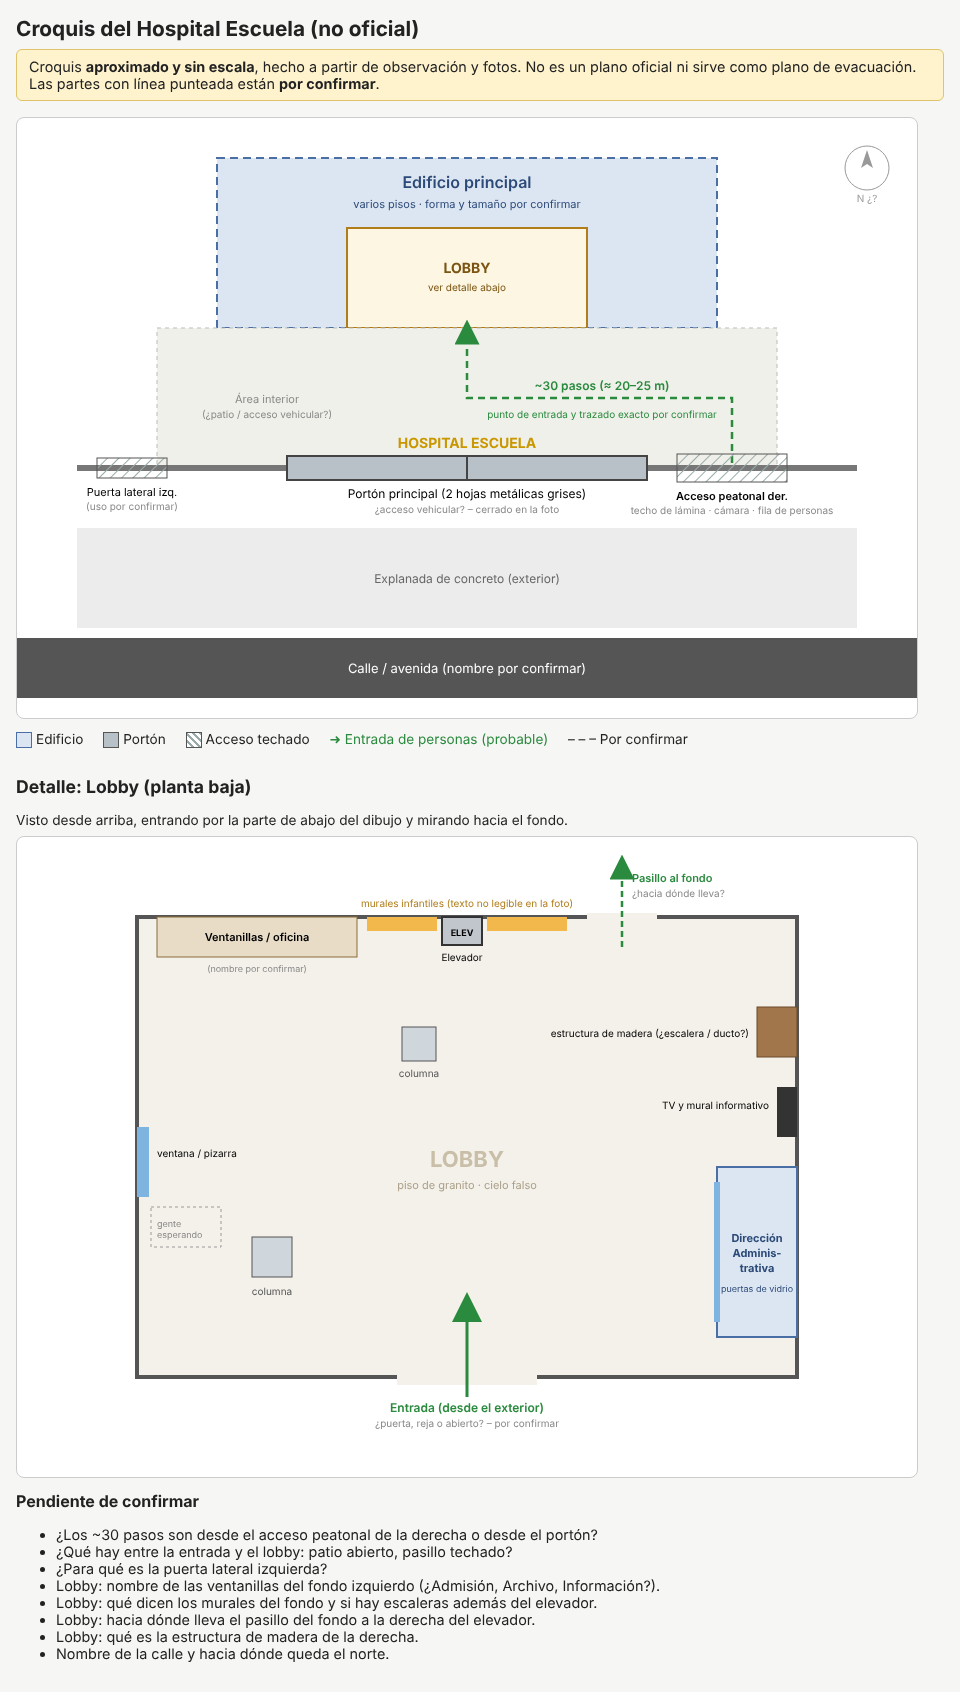
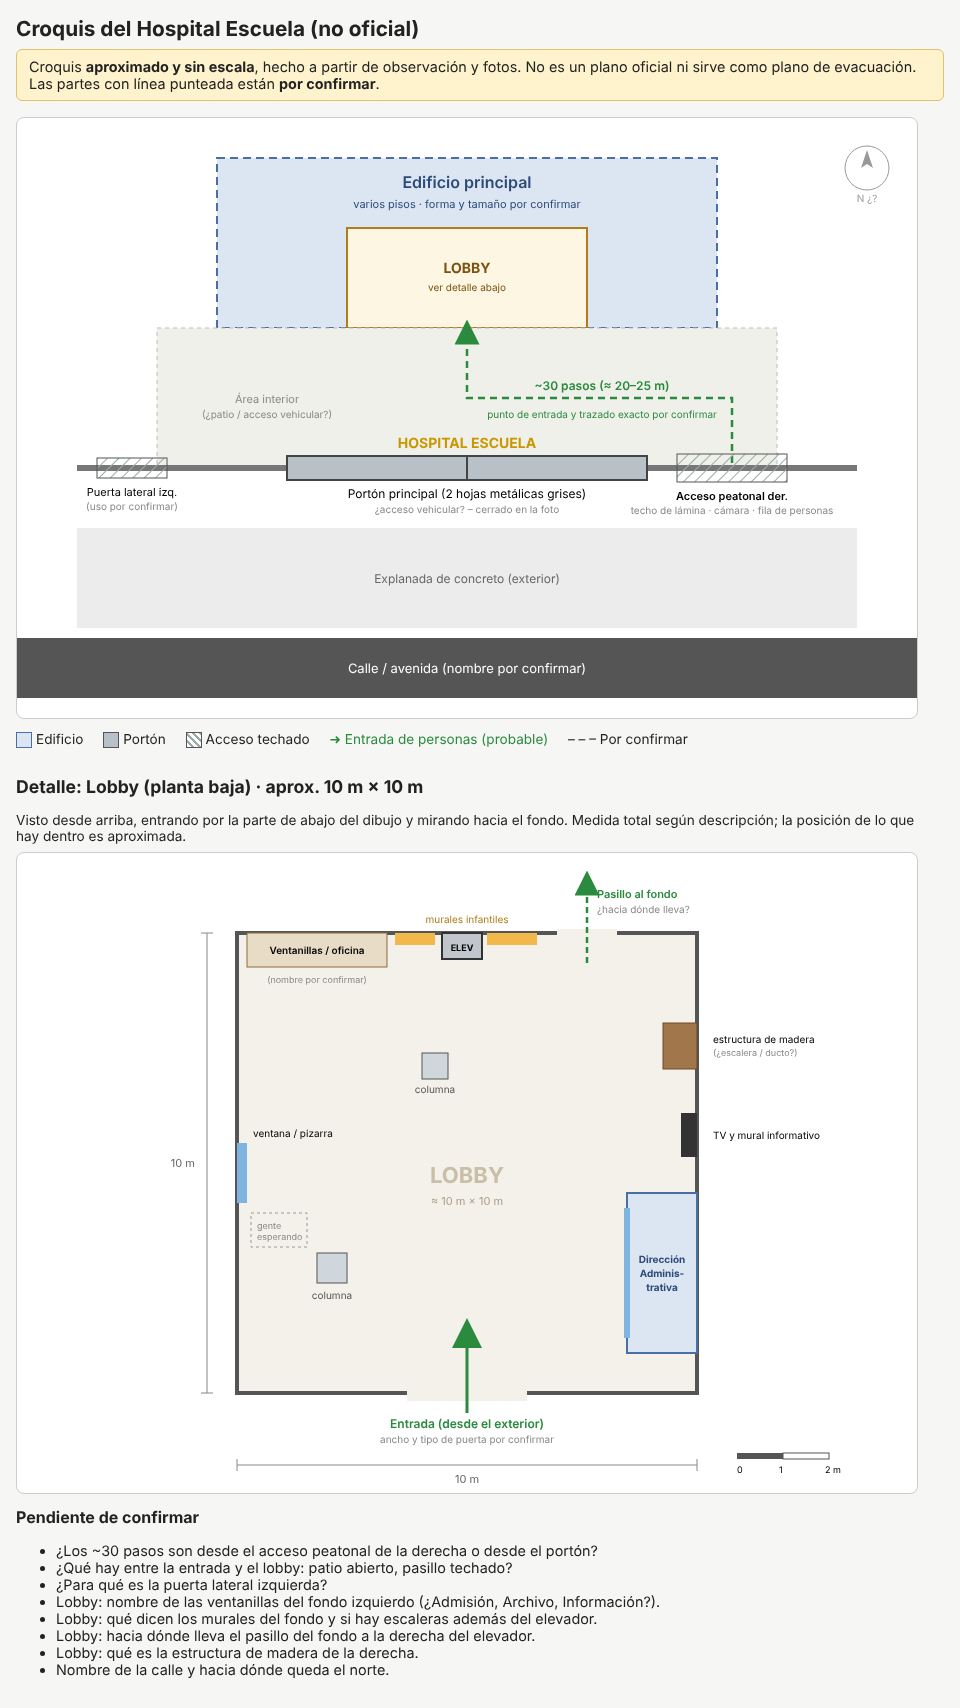
Croquis: lobby a escala aproximada 10 x 10 m
Claude-Session: https://claude.ai/code/session_015W3oK3Lfhysnu56NGNY6hD

diff --git a/croquis/index.html b/croquis/index.html
@@ -102,8 +102,8 @@
   <span>– – – Por confirmar</span>
 </div>
 
-<h2 style="font-size:1.1rem;margin-top:28px">Detalle: Lobby (planta baja)</h2>
-<p style="font-size:.85rem;max-width:900px;margin:0 0 8px">Visto desde arriba, entrando por la parte de abajo del dibujo y mirando hacia el fondo.</p>
+<h2 style="font-size:1.1rem;margin-top:28px">Detalle: Lobby (planta baja) · aprox. 10 m × 10 m</h2>
+<p style="font-size:.85rem;max-width:900px;margin:0 0 8px">Visto desde arriba, entrando por la parte de abajo del dibujo y mirando hacia el fondo. Medida total según descripción; la posición de lo que hay dentro es aproximada.</p>
 <div class="mapa">
 <svg viewBox="0 0 900 640" xmlns="http://www.w3.org/2000/svg" font-family="system-ui, sans-serif">
   <defs>
@@ -111,65 +111,68 @@
       <path d="M0,0 L10,5 L0,10 Z" fill="#2a8a3e"/>
     </marker>
   </defs>
-
-  <!-- Piso del lobby -->
-  <rect x="120" y="80" width="660" height="460" fill="#f4f1ea" stroke="#555" stroke-width="4"/>
+  <!-- Escala: 46 px = 1 m ; lobby 460 x 460 px = 10 x 10 m -->
+  <rect x="220" y="80" width="460" height="460" fill="#f4f1ea" stroke="#555" stroke-width="4"/>
   <text x="450" y="330" text-anchor="middle" font-size="22" font-weight="700" fill="#c9bfa8">LOBBY</text>
-  <text x="450" y="352" text-anchor="middle" font-size="11" fill="#a99f88">piso de granito · cielo falso</text>
+  <text x="450" y="352" text-anchor="middle" font-size="11" fill="#a99f88">≈ 10 m × 10 m</text>
+
+  <!-- Cotas -->
+  <line x1="220" y1="612" x2="680" y2="612" stroke="#888"/>
+  <line x1="220" y1="606" x2="220" y2="618" stroke="#888"/><line x1="680" y1="606" x2="680" y2="618" stroke="#888"/>
+  <text x="450" y="630" text-anchor="middle" font-size="11" fill="#666">10 m</text>
+  <line x1="190" y1="80" x2="190" y2="540" stroke="#888"/>
+  <line x1="184" y1="80" x2="196" y2="80" stroke="#888"/><line x1="184" y1="540" x2="196" y2="540" stroke="#888"/>
+  <text x="178" y="314" text-anchor="end" font-size="11" fill="#666">10 m</text>
+  <!-- Escala gráfica -->
+  <g transform="translate(720,600)">
+    <rect x="0" y="0" width="46" height="6" fill="#555"/><rect x="46" y="0" width="46" height="6" fill="#fff" stroke="#555"/>
+    <text x="0" y="20" font-size="9">0</text><text x="42" y="20" font-size="9">1</text><text x="88" y="20" font-size="9">2 m</text>
+  </g>
 
   <!-- Entrada (abajo) -->
-  <rect x="380" y="532" width="140" height="16" fill="#f4f1ea" stroke="none"/>
+  <rect x="390" y="532" width="120" height="16" fill="#f4f1ea"/>
   <text x="450" y="575" text-anchor="middle" font-size="12" font-weight="600" fill="#2a8a3e">Entrada (desde el exterior)</text>
-  <text x="450" y="590" text-anchor="middle" font-size="10" fill="#888">¿puerta, reja o abierto? – por confirmar</text>
-  <path d="M450,560 L450,470" stroke="#2a8a3e" stroke-width="3" marker-end="url(#fl2)"/>
+  <text x="450" y="590" text-anchor="middle" font-size="10" fill="#888">ancho y tipo de puerta por confirmar</text>
+  <path d="M450,560 L450,480" stroke="#2a8a3e" stroke-width="3" marker-end="url(#fl2)"/>
 
   <!-- Columnas -->
-  <rect x="235" y="400" width="40" height="40" fill="#cfd6dc" stroke="#555"/>
-  <text x="255" y="458" text-anchor="middle" font-size="10" fill="#555">columna</text>
-  <rect x="385" y="190" width="34" height="34" fill="#cfd6dc" stroke="#555"/>
-  <text x="402" y="240" text-anchor="middle" font-size="10" fill="#555">columna</text>
+  <rect x="300" y="400" width="30" height="30" fill="#cfd6dc" stroke="#555"/>
+  <text x="315" y="446" text-anchor="middle" font-size="10" fill="#555">columna</text>
+  <rect x="405" y="200" width="26" height="26" fill="#cfd6dc" stroke="#555"/>
+  <text x="418" y="240" text-anchor="middle" font-size="10" fill="#555">columna</text>
 
-  <!-- Pared derecha: Dirección Administrativa -->
-  <rect x="700" y="330" width="80" height="170" fill="#dce6f2" stroke="#4a6fa5" stroke-width="2"/>
-  <line x1="700" y1="345" x2="700" y2="485" stroke="#7fb3e0" stroke-width="6"/>
-  <text x="740" y="405" text-anchor="middle" font-size="11" font-weight="700" fill="#2c4a78">Dirección</text>
-  <text x="740" y="420" text-anchor="middle" font-size="11" font-weight="700" fill="#2c4a78">Adminis-</text>
-  <text x="740" y="435" text-anchor="middle" font-size="11" font-weight="700" fill="#2c4a78">trativa</text>
-  <text x="740" y="455" text-anchor="middle" font-size="9" fill="#2c4a78">puertas de vidrio</text>
-
-  <!-- Pared derecha: TV / tablero / celosía -->
-  <rect x="760" y="250" width="20" height="50" fill="#333"/>
-  <text x="752" y="272" text-anchor="end" font-size="10">TV y mural informativo</text>
-  <rect x="740" y="170" width="40" height="50" fill="#a0764a" stroke="#6b4b2a"/>
-  <text x="732" y="200" text-anchor="end" font-size="10">estructura de madera (¿escalera / ducto?)</text>
+  <!-- Pared derecha -->
+  <rect x="610" y="340" width="70" height="160" fill="#dce6f2" stroke="#4a6fa5" stroke-width="2"/>
+  <line x1="610" y1="355" x2="610" y2="485" stroke="#7fb3e0" stroke-width="6"/>
+  <text x="645" y="410" text-anchor="middle" font-size="10" font-weight="700" fill="#2c4a78">Dirección</text>
+  <text x="645" y="424" text-anchor="middle" font-size="10" font-weight="700" fill="#2c4a78">Adminis-</text>
+  <text x="645" y="438" text-anchor="middle" font-size="10" font-weight="700" fill="#2c4a78">trativa</text>
+  <rect x="664" y="260" width="16" height="44" fill="#333"/>
+  <text x="696" y="286" font-size="10">TV y mural informativo</text>
+  <rect x="646" y="170" width="34" height="46" fill="#a0764a" stroke="#6b4b2a"/>
+  <text x="696" y="190" font-size="10">estructura de madera</text>
+  <text x="696" y="203" font-size="9" fill="#888">(¿escalera / ducto?)</text>
 
   <!-- Pared izquierda -->
-  <rect x="120" y="290" width="12" height="70" fill="#7fb3e0"/>
-  <text x="140" y="320" font-size="10">ventana / pizarra</text>
-  <rect x="134" y="370" width="70" height="40" fill="none" stroke="#999" stroke-dasharray="3 3"/>
-  <text x="140" y="390" font-size="9" fill="#888">gente</text>
-  <text x="140" y="401" font-size="9" fill="#888">esperando</text>
+  <rect x="220" y="290" width="10" height="60" fill="#7fb3e0"/>
+  <text x="236" y="284" font-size="10">ventana / pizarra</text>
+  <rect x="234" y="360" width="56" height="34" fill="none" stroke="#999" stroke-dasharray="3 3"/>
+  <text x="240" y="376" font-size="9" fill="#888">gente</text>
+  <text x="240" y="387" font-size="9" fill="#888">esperando</text>
 
-  <!-- Fondo izquierdo: ventanillas -->
-  <rect x="140" y="80" width="200" height="40" fill="#e8dcc6" stroke="#8a6d3b"/>
-  <text x="240" y="104" text-anchor="middle" font-size="11" font-weight="600">Ventanillas / oficina</text>
-  <text x="240" y="135" text-anchor="middle" font-size="9" fill="#888">(nombre por confirmar)</text>
-
-  <!-- Fondo: murales -->
-  <rect x="350" y="80" width="70" height="14" fill="#f2b84b"/>
-  <rect x="470" y="80" width="80" height="14" fill="#f2b84b"/>
-  <text x="450" y="70" text-anchor="middle" font-size="10" fill="#b07d1a">murales infantiles (texto no legible en la foto)</text>
-
-  <!-- Elevador -->
-  <rect x="425" y="80" width="40" height="28" fill="#c0c6cc" stroke="#333" stroke-width="2"/>
-  <text x="445" y="99" text-anchor="middle" font-size="9" font-weight="700">ELEV</text>
-  <text x="445" y="124" text-anchor="middle" font-size="10">Elevador</text>
-
-  <!-- Salida al fondo -->
-  <rect x="570" y="76" width="70" height="10" fill="#f4f1ea"/>
-  <path d="M605,110 L605,30" stroke="#2a8a3e" stroke-width="2.5" stroke-dasharray="6 4" marker-end="url(#fl2)"/>
-  <text x="615" y="45" font-size="11" font-weight="600" fill="#2a8a3e">Pasillo al fondo</text>
-  <text x="615" y="60" font-size="10" fill="#888">¿hacia dónde lleva?</text>
+  <!-- Fondo -->
+  <rect x="230" y="80" width="140" height="34" fill="#e8dcc6" stroke="#8a6d3b"/>
+  <text x="300" y="101" text-anchor="middle" font-size="10" font-weight="600">Ventanillas / oficina</text>
+  <text x="300" y="130" text-anchor="middle" font-size="9" fill="#888">(nombre por confirmar)</text>
+  <rect x="378" y="80" width="40" height="12" fill="#f2b84b"/>
+  <rect x="470" y="80" width="50" height="12" fill="#f2b84b"/>
+  <text x="450" y="70" text-anchor="middle" font-size="10" fill="#b07d1a">murales infantiles</text>
+  <rect x="425" y="80" width="40" height="26" fill="#c0c6cc" stroke="#333" stroke-width="2"/>
+  <text x="445" y="98" text-anchor="middle" font-size="9" font-weight="700">ELEV</text>
+  <rect x="540" y="76" width="60" height="10" fill="#f4f1ea"/>
+  <path d="M570,110 L570,30" stroke="#2a8a3e" stroke-width="2.5" stroke-dasharray="6 4" marker-end="url(#fl2)"/>
+  <text x="580" y="45" font-size="11" font-weight="600" fill="#2a8a3e">Pasillo al fondo</text>
+  <text x="580" y="60" font-size="10" fill="#888">¿hacia dónde lleva?</text>
 </svg>
 </div>
 
